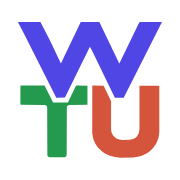
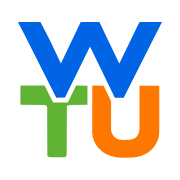
fix(brand): put the mark back on its own colours
The logo had been recoloured to the interface palette — indigo, green,
coral — on the assumption that matching the app was the goal. It made a
worse mark, and the numbers say why: the original's green and orange sit
at 2.63 and 2.67 on white, within a hair of each other, which is what
lets three letters read as one object. The interface palette put them at
6.29 / 3.62 / 4.07, three different weights, so the W dominated and the
mark read as three things stuck together.

Traced from resources/wtu-logo.png with its own colours sampled exactly:
W #0164E5, T #60B333, U #FE7701. Shapes are unchanged.

The wordmark follows, and stops reading theme tokens. Those three values
are now literals — deliberately. They belong to the mark, not the theme,
and a logo must not recolour because the product did. They appear in
three places (the SVG's fills, `mark` in brand.json for the social card,
and the Wordmark component, because StyleX needs static values) and each
carries a comment saying the three move together. This is the only colour
literal under src/components; grep confirms.

Drops --color-text-green from the theme, which existed only for the
previous wordmark and now has no consumer.

diff --git a/app/src/theme/wtuTheme.ts b/app/src/theme/wtuTheme.ts
@@ -53,20 +53,6 @@ const CORAL = {
   ink: '#9C3A26',
 } as const;
 
-// ── the mark ────────────────────────────────────────────────────────────────
-// The logo is three letters in three colours, and the wordmark spells the same
-// three: W-hich-T-o-U-se. Two of them are already interface colours; the green
-// exists only for the mark, so it lives here rather than as a literal in a
-// component. Its hue (141) sits almost exactly between indigo and coral, and it
-// carries coral's weight on white — see scripts/trace-logo.mjs.
-const MARK_GREEN = '#249A4E'
-
-// The wordmark's face is Bricolage Grotesque, and it is deliberately NOT the
-// body font: it has the character a logo wants and would be tiring across a
-// page of 12px ranking rows. It cannot live in `tokens` below — that map is
-// typed to Astryx's own token names — so it sits in the Wordmark component,
-// paired with the webfont request in brand.json. Change the two together.
-
 // ── frame ───────────────────────────────────────────────────────────────────
 const CANVAS = '#F4F7F6' // shell; near-white, a hair cooler than the content
 const SURFACE = '#FFFFFF' // content and cards
@@ -169,10 +155,6 @@ export const wtuTheme = defineTheme({
     '--color-border-red': [CORAL.line, '#7A3624'],
     '--color-icon-red': [CORAL.base, '#E8785F'],
     '--color-text-red': [CORAL.ink, '#F3B8A6'],
-
-    // Green exists for one thing: the T, in the mark and in the wordmark.
-    '--color-text-green': [MARK_GREEN, '#5FC98A'],
-    '--color-icon-green': [MARK_GREEN, '#5FC98A'],
 
     '--color-background-gray': [RECESSED, '#232A28'],
     '--color-border-gray': [LINE, '#3D4644'],

diff --git a/app/src/components/bits.tsx b/app/src/components/bits.tsx
@@ -91,6 +91,12 @@ const styles = stylex.create({
   // request is in src/theme/brand.json — the two have to be changed together,
   // and the family cannot move into the theme's `tokens` map because that map
   // is typed to Astryx's own token names.
+  //
+  // The three colours are literals, and that is the point: they belong to the
+  // mark, not to the theme, and must NOT follow a palette change — the logo
+  // should not recolour because the product did. They mirror `mark` in
+  // brand.json and the fills in resources/brand/wtu-logo.svg; StyleX needs
+  // static values, so the three places move together by hand.
   wordmark: {
     fontFamily: '"Bricolage Grotesque", "Inter", -apple-system, sans-serif',
     fontWeight: 700,
@@ -98,9 +104,9 @@ const styles = stylex.create({
     letterSpacing: '-0.03em',
     whiteSpace: 'nowrap',
   },
-  wmWhich: { color: colorVars['--color-accent'] },
-  wmTo: { color: colorVars['--color-text-green'] },
-  wmUse: { color: colorVars['--color-error'] },
+  wmWhich: { color: '#0164E5' },
+  wmTo: { color: '#60B333' },
+  wmUse: { color: '#FE7701' },
 })
 
 /** WhichToUse: three words, the mark's three colours, one each. The spans are
